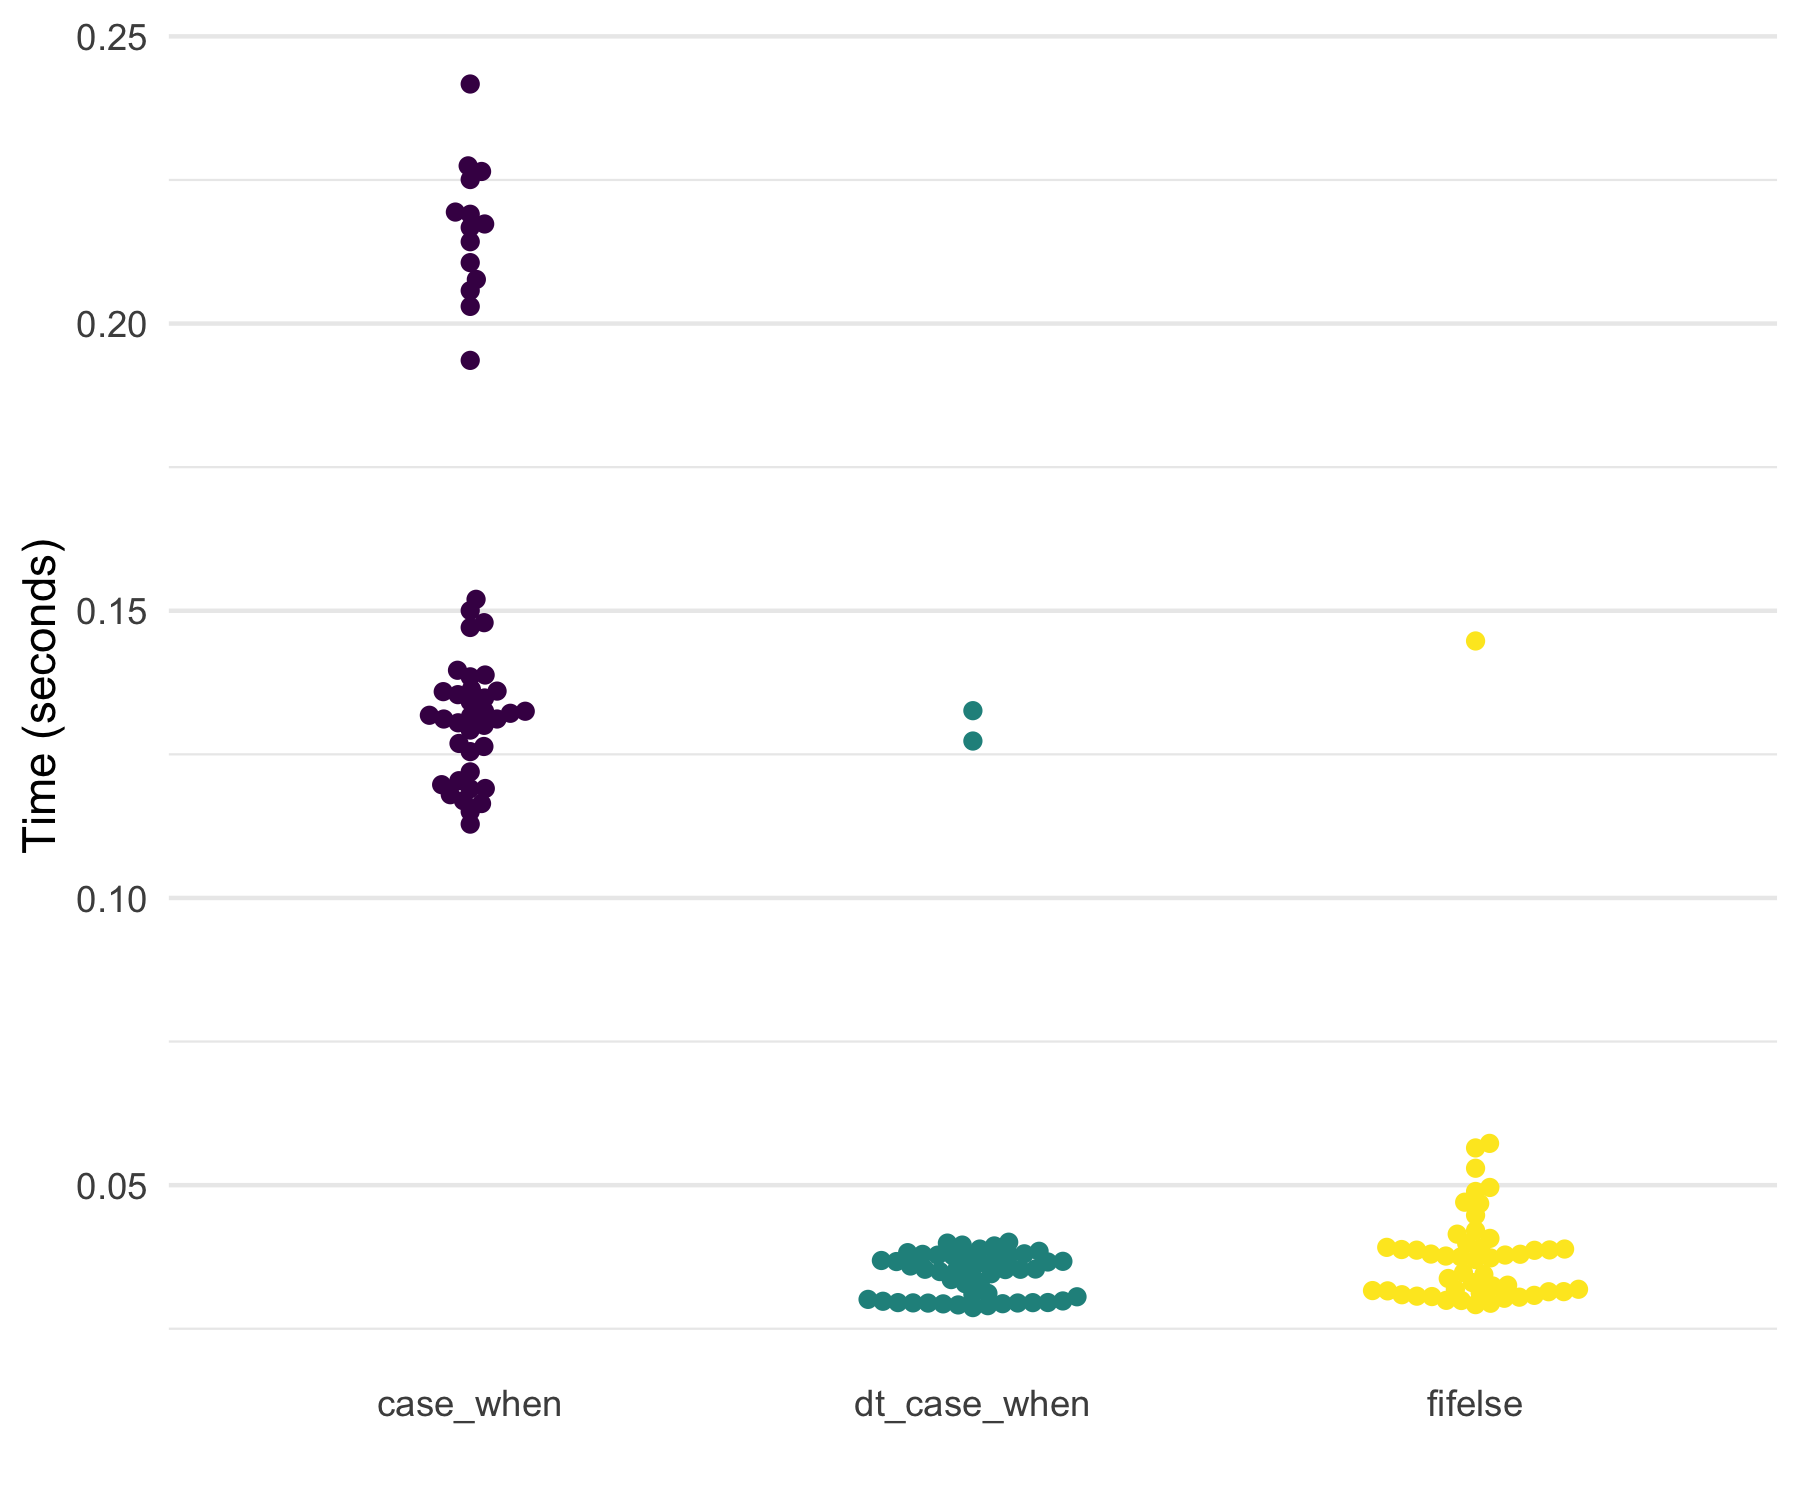
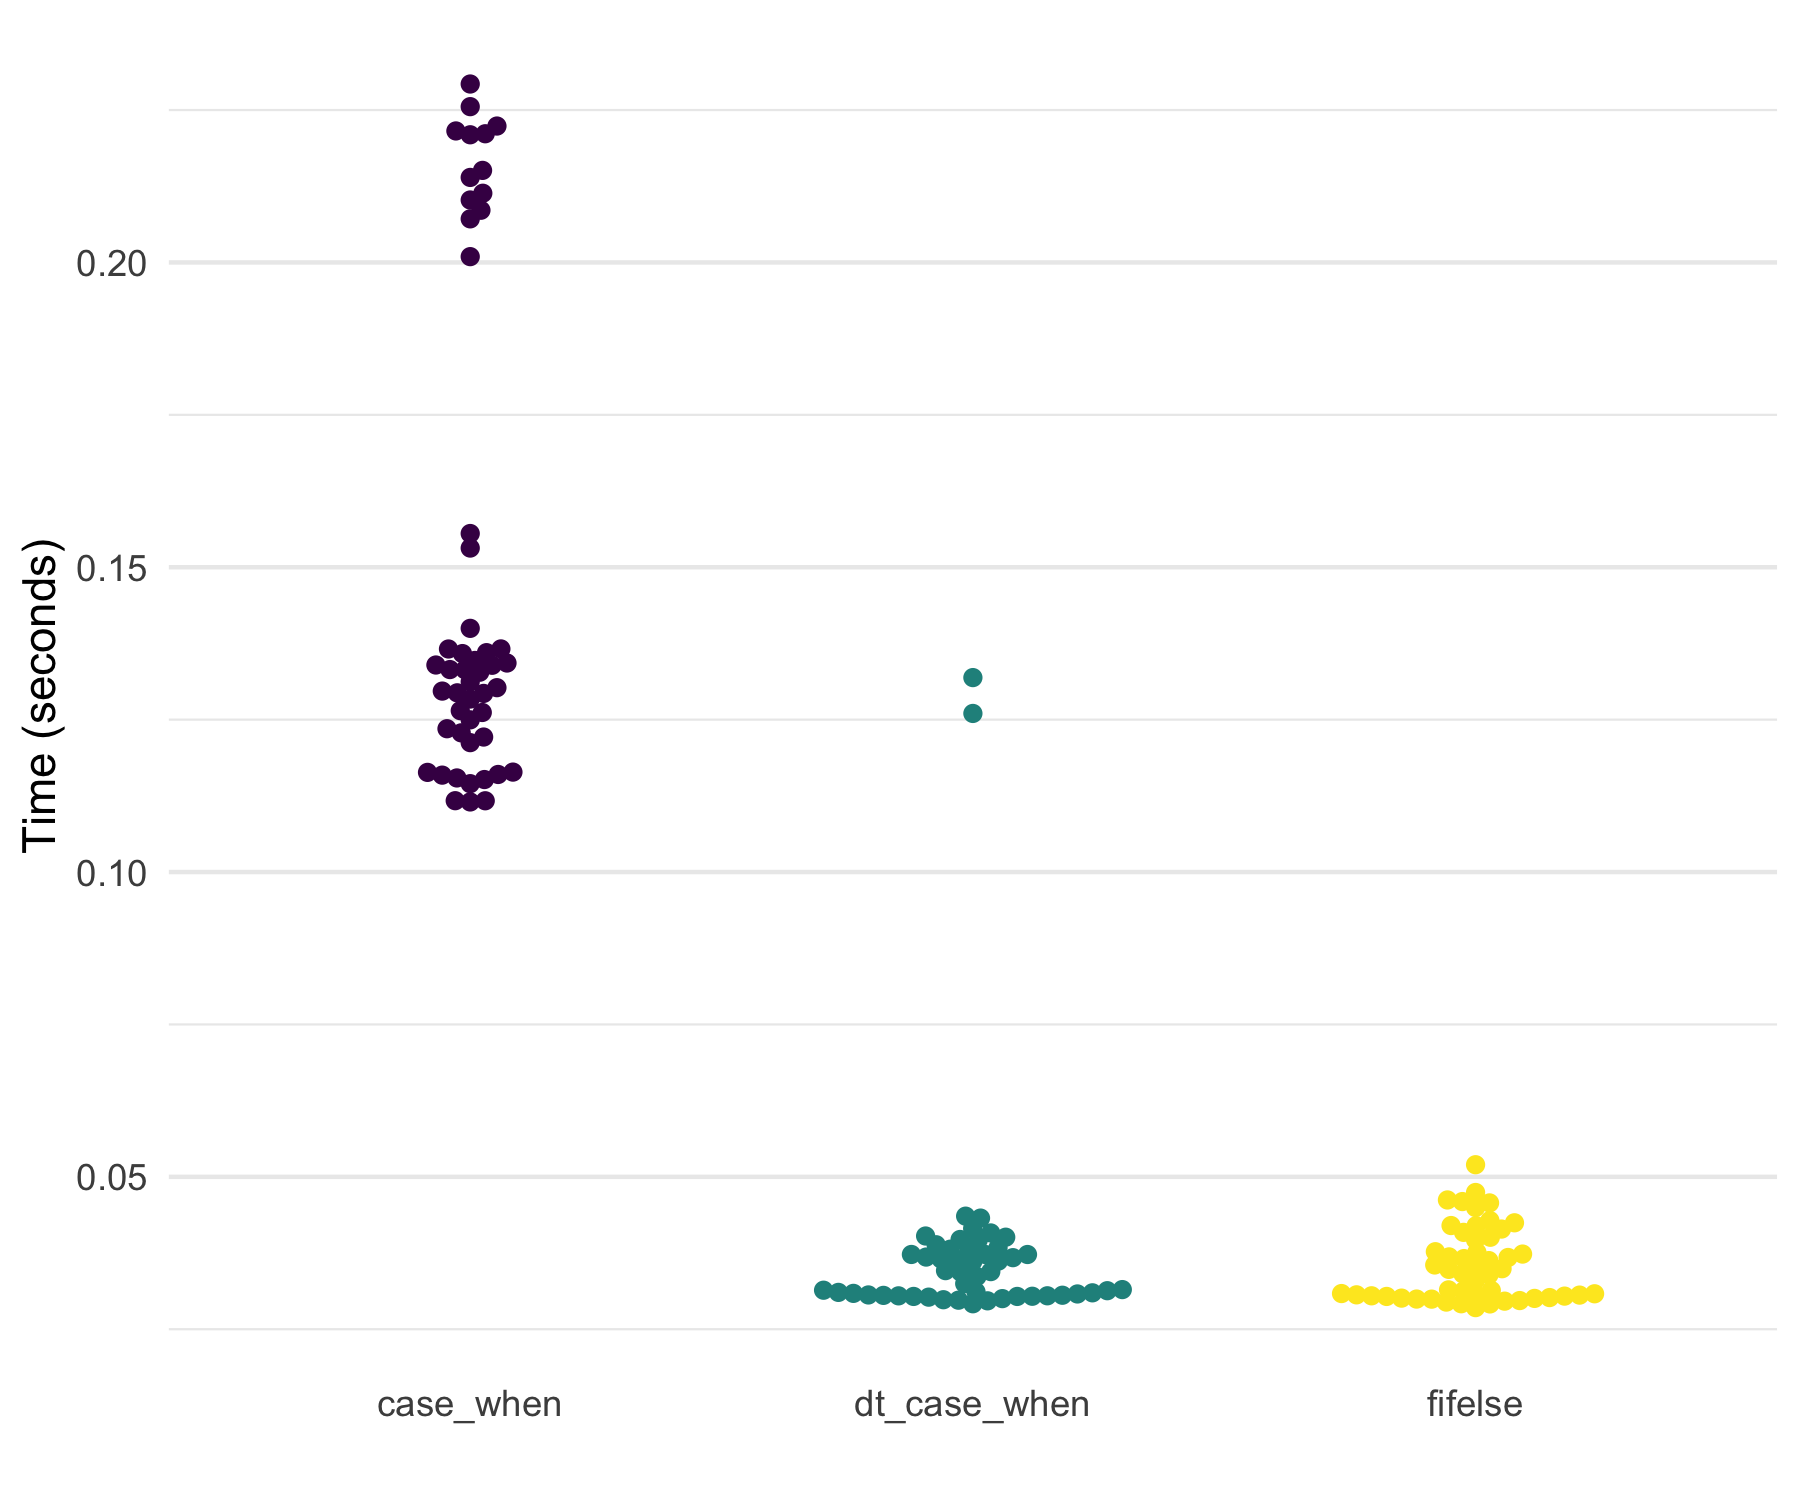
updated README

diff --git a/README.md b/README.md
@@ -212,13 +212,13 @@ highlighted below. Notably, the timings are without the `nested1` and
     #> # A tibble: 2 x 3
     #>   expression   median mem_alloc
     #>   <chr>      <bch:tm> <bch:byt>
-    #> 1 dt_nest      3.49ms    2.88MB
-    #> 2 group_nest   5.21ms    2.54MB
+    #> 1 dt_nest      3.27ms    2.88MB
+    #> 2 group_nest      5ms    2.54MB
     #> # A tibble: 2 x 3
     #>   expression   median mem_alloc
     #>   <chr>      <bch:tm> <bch:byt>
-    #> 1 dt_unnest     5.3ms    6.22MB
-    #> 2 unnest       13.1ms    8.47MB
+    #> 1 dt_unnest    5.32ms    6.25MB
+    #> 2 unnest      12.72ms    8.47MB
 
 ### If Else
 
@@ -267,9 +267,9 @@ built on `data.table::fifelse()`.
     #> # A tibble: 3 x 3
     #>   expression     median mem_alloc
     #>   <chr>        <bch:tm> <bch:byt>
-    #> 1 case_when     135.1ms   148.8MB
-    #> 2 dt_case_when   35.4ms    34.3MB
-    #> 3 fifelse        37.4ms    34.3MB
+    #> 1 case_when     133.2ms   148.8MB
+    #> 2 dt_case_when   34.4ms    34.3MB
+    #> 3 fifelse        34.5ms    34.3MB
 
 ## Fill
 
@@ -377,8 +377,8 @@ marks3 <-
     #> # A tibble: 2 x 3
     #>   expression                                    median mem_alloc
     #>   <bch:expr>                                  <bch:tm> <bch:byt>
-    #> 1 tidyr::fill(dplyr::group_by(df3, id), x, y)   65.4ms    30.7MB
-    #> 2 tidyfast::dt_fill(dt3, x, y, id = list(id))   21.8ms    29.1MB
+    #> 1 tidyr::fill(dplyr::group_by(df3, id), x, y)   65.6ms    30.7MB
+    #> 2 tidyfast::dt_fill(dt3, x, y, id = list(id))   24.7ms    29.1MB
 
 ## Separate
 
@@ -420,9 +420,9 @@ than `tidyr::separate()`.
     #> # A tibble: 3 x 3
     #>   expression            median mem_alloc
     #>   <chr>               <bch:tm> <bch:byt>
-    #> 1 separate               369ms    11.6MB
-    #> 2 dt_separate            122ms    30.6MB
-    #> 3 dt_separate-mutable    111ms    26.7MB
+    #> 1 separate               370ms    11.6MB
+    #> 2 dt_separate            123ms    30.6MB
+    #> 3 dt_separate-mutable    112ms    26.7MB
 
 ## Count and Uncount
 
@@ -585,10 +585,10 @@ efficient.
     #> # A tibble: 4 x 3
     #>   expression        median mem_alloc
     #>   <chr>           <bch:tm> <bch:byt>
-    #> 1 dt_pivot_longer 993.66µs  993.47KB
-    #> 2 pivot_longer      7.12ms    2.63MB
-    #> 3 dt_pivot_wider   21.14ms     2.5MB
-    #> 4 pivot_wider     384.89ms    2.43MB
+    #> 1 dt_pivot_longer   1.04ms  993.47KB
+    #> 2 pivot_longer      6.78ms    2.63MB
+    #> 3 dt_pivot_wider      21ms     2.5MB
+    #> 4 pivot_wider     386.32ms    2.43MB
 
 ## Notes
 
